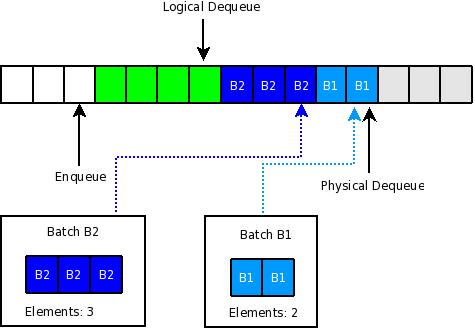
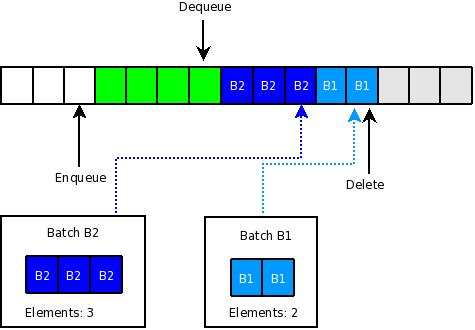
worked more on the design document

diff --git a/doc/design.tex b/doc/design.tex
@@ -44,8 +44,15 @@ There is not much I could add to Mr. Stetter's thought, except, maybe, that the 
 In general, in rsyslog there exists single objects $o$, which are used to build larger sets $O$, which form a superset $\mathcal{O}$ of all those objects that exist at a given time inside a running instance of rsyslog. As seen above, single objects are always described by lower case letters ($o$), larger sets by upper case letters ($O$) and the ``all-sets'' in caligraphic letters ($\mathcal{O}$). Often, objects $O_i, i \in \IN, i \le |\mathcal{O}|$ partition $\mathcal{O}$, but this is not necessarily the case.
 
 \subsection{Definitions}
+\subsubsection{Sudden Fatal Failure}
+As sudden fatal failure is one that occurs at some instant and causes Complete loss of processing capabilities. The two major cases are a sudden power loss or a ``kill -9'' of the process. There are more exotic cases, too, like disasters.
+
+One may argue that it is possible to protect against many sudden fatal failure cases. For example, using an uninterruptable power supply (UPS) will prevent a sudden power loss. While this is true in most cases, it does not hold if looked very closely: in the case of the UPS, for example, a failure in the UPS itself may cause a sudden power loss, which can not be mitigated. Well, actually there can be several layers of mitigation, but always one more potential failure scenario remains. So it is not possible to totally solve the issue.
+
+The concept of ``sudden fatal failure'' now covers all these rest risk that result in termiantion of rsyslogd without the ability execute any code before this happens. This is a very important concept in regard to audit-gradeness.
+
 \subsubsection{Audit Grade}
-In the context of this document, ``audit grade'' means that a subsystem never loses a message that it has taken responsibility for, not even in cases of sudden power failures. The only limit in this restriction is that a subsystem does not guarantee message survival if the subsytem at large is being destroyed (e.g. during a disaster) or some of its components are not of audit-grade. This draws a fine limitation on the audit-grade of a subsystem.
+In the context of this document, ``audit grade'' means that a subsystem never loses a message that it has taken responsibility for, not even in cases of sudden fatal failures. The only limit in this restriction is that a subsystem does not guarantee message survival if the subsytem at large is being destroyed (e.g. during a disaster) or some of its components are not of audit-grade. This draws a fine limitation on the audit-grade of a subsystem.
 
 For example, the rsyslog queue subsystem receives messages and acknowledges them to the submitter (e.g. an input), when they have been enqueued in the storage system. If the queue system is configured to provide audit-grade operation\footnote{Audit-grade queue operation is considerably slower than regular operations, as such this mode is not enabled by default. Most installations will never need a completely audit-grade queue}, the queue relies on the storage subsystem to work properly. If, for example, a disk read error occurs, the message may no longer be readable from the disk and as such is lost. The root cause here is that the disk subsystem was not of audit grade, because it otherwise would not have lost the message. So in this case the queue code is of audit grade, but the one of its components, the disk subsytem, was not. So the overall system is not of audit grade.
 
@@ -498,7 +505,7 @@ back to the queue (think: ungetc()) when something goes wrong. Reasonable
 in unprocessed state outside of the queue.
 
 \paragraph{More reliable can actually be less reliable}
-On the rsyslog mailing list, we had a discussion about how reliable rsyslog should be. It circles about a small potential window of message loss in the case of sudden power failure. Rsyslog can be configured to put all messages into a disk queue (instead of main memory), so these messages survive such a powerfail condition. However, messages dequeued and scheduled for processing during the power outage may be lost. 
+On the rsyslog mailing list, we had a discussion about how reliable rsyslog should be. It circles about a small potential window of message loss in the case of sudden fatal failure. Rsyslog can be configured to put all messages into a disk queue (instead of main memory), so these messages survive such a powerfail condition. However, messages dequeued and scheduled for processing during the power outage may be lost. 
 
 I now consider a case where we have bursty UDP traffic and rsyslog is configured to use a disk-only queue (which obviously is much slower than an in-memory queue). Looking at processing speeds, the max burst rate is limited by using an ultra-reliable queue. To avoid using UDP messages, a second instance could be run that uses an in-memory queue and forwards received messages to the one in ultra-reliable mode (that is with the disk-only queue). So that second instance queues in memory until the (slower) reliable rsyslogd can now accept the message and put it into the reliable queue. Let's say that you have a burst of $r$ messages and that from these burst only $r/2$ can be enqueued (because the ultra reliable queue is so slow). So you lose $r/2$ messages.
 
@@ -535,21 +542,21 @@ Audit-grade queue operations certain perquisites:
 \item queue is configured to not permit losing any messages\footnote{The queue has several settings that can be used to fine-tune situations in which it may discard messages intentionally. All of these must be turned off. Most importantly, that means the producer is blocked for an infinite time if the queue is full.}
 \item queue consumer must also be of audit-grade
 \end{itemize}
-Only when these prequisites are met, queue operation can be considered of being audit-grade. Note that when message loss in case of sudden power failure and similar incidents is acceptable, neither disk-only queues nore a checkpoint interval of 1 is necessary. Such a configuration can also be build with rsyslog v3, which is up to that level.
+Only when these prequisites are met, queue operation can be considered of being audit-grade. Note that when message loss in case of sudden fatal failure and similar incidents is acceptable, neither disk-only queues nore a checkpoint interval of 1 is necessary. Such a configuration can also be build with rsyslog v3, which is up to that level.
 
 Note that in the sections below we describe the implementation in broader terms. Most importantly, we do not restrict ourselves to disk-only queue storage drivers. This is important, because it simplifies design and opens the capability to introduce new, possibly faster-performing, queue storage drivers in the future.
 
 But it is important to keep in mind that a concrete queue is only of audit-grade if it matches all the perquisites given here, most importantly with the right configuration.
 
-\subsubsection{Implementation}
-Messages are enqueued by the queue producer (either an input module or the main message queue's consumer). The enqueue operation is completed only when the message has been successfully accepted by the queue storage driver. Then and only then the producer is permitted to remove the queue from its own storage system. A rough sketch is given in algorithm \ref{alg_q_enq}.
+\subsubsection{Implementation Alternatives}
+Messages, or more precisely objects\footnote{While rsyslog deals with messages, the queue is designed to handle any type of thing that is represented as an rsyslog object. This is considered useful as queues may at some time contain other things than just messages, so we keep it generic.}, are enqueued by the queue producer (either an input module or the main message queue's consumer). The enqueue operation is completed only when the message has been successfully accepted by the queue storage driver. Then and only then the producer is permitted to remove the object from its own storage system. A rough sketch is given in algorithm \ref{alg_q_enq}.
 
 \begin{algorithm}
 \caption{enqueueObject($o$)}
 \begin{algorithmic}
 \label{alg_q_enq}
 \STATE lock queue mutex
-\WHILE{queue is !ready for enqueue}
+\WHILE{queue is not ready for enqueue}
 	\STATE wait on queue to become ready
 \ENDWHILE
 \STATE call queue store driver to add $o$
@@ -557,14 +564,18 @@ Messages are enqueued by the queue producer (either an input module or the main 
 \end{algorithmic}
 \end{algorithm}
 
-The dequeue-operation is more complex. We must ensure that each object stays in the queue until it is finally processed. Hereby, an object is finally processed, when processing of it has been completed. Remeber that to enhance performance objects are dequeued in batches of many. So at any given time, multiple messages may be processed, but not necessarily have finally completed doing so. If another worker thread then tries to obtain a new batch for processing, those ``in-process'' message must not be handed out a second time. Also, if a sudden power loss occurs during processing, queue operation must restart at the point of last commit. This means that all ``in-process'' messages need to be changed back to ``no processed'' state and be restarted again. In those cases the (acceptable) slight message duplication can occur.
+The dequeue-operation is more complex. We must ensure that each object stays in the queue until it is finally processed. Hereby, an object is finally processed, when processing of it has been completed. Remember that to enhance performance, objects are dequeued in batches of many. So at any given time, multiple messages may be processed, but not necessarily have finally completed doing so. If another worker thread then tries to obtain a new batch for processing, those ``in-process'' message must not be handed out a second time. Also, if a sudden fatal failure occurs during processing, queue operation must restart at the point of last commit. This means that all ``in-process'' messages need to be changed back to ``no processed'' state and be restarted again. In those cases the (acceptable) slight message duplication can occur.
 
 In our design, we differentiate between ``logical'' and ``physical'' dequeuing of batches. If a batch is generated for processing, it is logically dequeued --- in the sense that no other batch generating request will be able to receive another copy of these messages. If no exceptional situation happens, those messages will be processed and thus can be considered consumed under normal circumstances.
 
-However, actual deletion from the physical queue storage happens only after the batch is fully processed. At this point, all objects have been acknowledged by their destinations, which now have the responsibility for the object's survival. Consequently, we can delete them from the queue store. This process we call ``physical dequeue''. A first idea is given in algorithm \ref{alg_pdeq_batch_1} (remember that $O(b)$ contains all objects within the given batch $b$).
+However, actual deletion from the physical queue storage happens only after the batch is fully processed. At this point, all objects have been acknowledged by their destinations, which now have the responsibility for the object's survival. Consequently, we can delete them from the queue store. This process is considered the ``physical'' dequeue of the object.
+
+In order to find some simpler terms, we will call the logical dequeue operation just ``dequeue'' and the physical dequeue operation ``delete''. This is consistent with all previous work on rsyslog and thus probably leads to the least surprise when reading older source code and documentation.
+
+A first idea for a deletion is given in algorithm \ref{alg_pdeq_batch_1} (remember that $O(b)$ contains all objects within the given batch $b$, this is \emph{not} $O$-notation and should probably in the future be replaced by something else).
 
 \begin{algorithm}
-\caption{physDequeueBatch($b$), first approach}
+\caption{deleteBatch($b$), first approach}
 \begin{algorithmic}
 \label{alg_pdeq_batch_1}
 \STATE lock queue mutex
@@ -576,25 +587,25 @@ However, actual deletion from the physical queue storage happens only after the 
 \end{algorithmic}
 \end{algorithm}
 
-This algorithm is simple, but requires searching the queue store for the object to be dequeued -- a potentially lengthy operation. However, we can improve the searching process if we know more about the inner structure of batch objects. It seems appropriate to logically dequeue objects in queue-sequential order. A drawback of doing so is that we must prevent other worker threads from trying to dequeue concurrently. This is not really a drawback. We need to guard dequeue operations by a mutex in any case, because otherwise internal structures can not be kept consistent. Practical experience and testing have shown that many small dequeue operations cause a lot of locking contention and as such badly affect performance. So it actually is a welcome enhancement to aquire the queue lock only once for the whole batch dequeue operation. As dequeing is a comperatively fast operation, the lock is not held for extended periods of time.
+This algorithm is simple, but requires searching the queue store for the object to be deleted -- a potentially lengthy operation. However, we can improve the searching process if we know more about the inner structure of batch objects. It seems appropriate to dequeue objects in queue-sequential order. A drawback of doing so is that we must prevent other worker threads from trying to dequeue concurrently. This is not really a drawback. We need to guard dequeue operations by a mutex in any case, because otherwise internal structures can not be kept consistent. Practical experience and testing have shown that many small dequeue operations cause a lot of locking contention and as such badly affect performance. So it actually is a welcome enhancement to aquire the queue lock only once for the whole batch dequeue operation. As dequeing is a comperatively fast operation, the lock is not held for extended periods of time.
 
-A first approach to this functionality is shown in algorithm \ref{alg_ldeq_batch_1}. Note that $C_mBatch$ is the configured maximum number of elements inside a batch, $i$ is an index to address the objects inside the batch.
+A first approach to this functionality is shown in algorithm \ref{alg_ldeq_batch_1}. Note that $C_{mBatch}$ is the configured maximum number of elements inside a batch, $i$ is an index to address the objects inside the batch.
 
 \begin{figure}[h]
 \begin{center}
 \includegraphics[scale=0.6]{rsyslog_queue_pointers.jpeg}
 \end{center}
-\caption{\textbf{Queue Store Pointers}: boxes represent queue entries, colored boxes entries with objects. Objects in green are unprocessed, in blue are logically but not physicalled dequeued and those in gray are physically dequeued. White indicates not yet used entries. Gray objects may be overwritten at any time. Their entries are actually free, we have used the gray color primarily to indicate there once existed objects. Each queue pointer points to the next entry to process.}
+\caption{\textbf{Queue Store Pointers}: boxes represent queue entries, colored boxes entries with objects. Objects in green are unprocessed, in blue are dequeued but not deleted and those in gray have already been deleted. White indicates not yet used entries. Gray objects may be overwritten at any time. Their entries are actually free, we have used the gray color primarily to indicate there once existed objects. Each queue pointer points to the next entry to process.}
 \label{fig_queue_ptr}
 \end{figure}
 
 \begin{algorithm}
-\caption{logicDequeueBatch($b$)}
+\caption{dequeueBatch($b$)}
 \begin{algorithmic}
 \label{alg_ldeq_batch_1}
 \STATE lock queue mutex
 \STATE $0 \to i$
-\WHILE{while queue non-empty and $i < C_mBatch$}
+\WHILE{queue non-empty and $i < C_{mBatch}$}
 	\STATE obtain next obj $o$ from queue store 
 	\STATE advance logical dequeue position
 	\STATE put $o$ into batch
@@ -603,37 +614,37 @@ A first approach to this functionality is shown in algorithm \ref{alg_ldeq_batch
 \end{algorithmic}
 \end{algorithm}
 
-A key concept is somewhat hidden in \marginpar{queue pointers} \emph{advance logical dequeue position}. Each queue store is purely sequential, with objects being enqueued at one ``end'' of the store and dequeued at the other. Of course, each queue store has only finite capacity, but we ignore this to explain the overall picture. A queue can be implemented by two pointers: one that points to the tail of the queue, where new messages are enqueued and one that points to the head of it, where new messages are dequeued. The idea is now to duplicate the dequeue pointer and split it into one for logical and one for physical dequeueing. Figure \ref{fig_queue_ptr} shows this three-pointer approach. Now, we can simple advance either the logical or physical dequeue pointer, depending on operation, and do not need to find the first dequeue position inside the queue store. The logical dequeue pointer always points at it. This mode can be implemented with all currently existing queue storage drivers (but the sequential disk driver may need to use a second file handle or stream object instead of two pointers).
+A key concept is somewhat hidden in \marginpar{queue pointers} \emph{advance logical dequeue position}. Each queue store is purely sequential, with objects being enqueued at one ``end'' of the store and dequeued at the other. Of course, each queue store has only finite capacity, but we ignore this to explain the overall picture. A queue can be implemented by two pointers: one that points to the tail of the queue, where new messages are enqueued and one that points to the head of it, where new messages are dequeued. The idea is now to duplicate the dequeue pointer and split it into one for (logical) dequeue and one for deletion. Figure \ref{fig_queue_ptr} shows this three-pointer approach. Now, we can simple advance either the dequeue or deletion pointer, depending on operation, and do not need to find the first dequeue position inside the queue store. The dequeue pointer always points at it. This mode can be implemented with all currently existing queue storage drivers (but the sequential disk driver may need to use a second file handle or stream object instead of two pointers).
 
-This makes an efficient implementation of algorithm \ref{alg_ldeq_batch_1} possible: when it logically dequeues, it just needs to advance the logical dequeue pointer. So the algorithm executes in $O(n)$ time where $n$ specifies the number of elements to dequeue with an upper bound of $C_mBatch$.
+This makes an efficient implementation of algorithm \ref{alg_ldeq_batch_1} possible: when it logically dequeues, it just needs to advance the dequeue pointer. So the algorithm executes in $O(n)$ time where $n$ specifies the number of elements to dequeue with an upper bound of $C_{mBatch}$.
 
 \begin{figure}[h]
 \begin{center}
 \includegraphics[scale=0.6]{rsyslog_queue_pointers2.jpeg}
 \end{center}
-\caption{\textbf{Physically Dequeueing Messages}: In this sample, we have two batches. With multiple workers, they may be physically dequeued at any time.}
+\caption{\textbf{Physically Dequeueing Messages}: In this sample, we have two batches. With multiple workers, they may be deleted in any order.}
 \label{fig_queue_ptr_deq}
 \end{figure}
 
-Furthermore, we can also improve algorithm \ref{alg_pdeq_batch_1}: Consider that each batch is logically dequeued as an atomic operation. That means all batch objects form a sequential subset of the queue. Figure \ref{fig_queue_ptr_deq} shows the situation when two batches have been logically dequeued.  So the costly ``find'' operation now needs to be carried out only once at the beginning of the batch. As all other objects are sequential, once we have found the batch begin inside the queue, we can simply physically dequeue the $|b|$ elements in queue-sequential order after it. So the cost of the find operation can be reduced from $O(|b|)$ to $O(1)$.
+Furthermore, we can also improve algorithm \ref{alg_pdeq_batch_1}: Consider that each batch is logically dequeued as an atomic operation. That means all batch objects form a sequential subset of the queue. Figure \ref{fig_queue_ptr_deq} shows the situation when two batches have been dequeued.  So the costly ``find'' operation now needs to be carried out only once at the beginning of the batch. As all other objects are sequential, once we have found the batch begin inside the queue, we can simply delete the $|b|$ elements in queue-sequential order after it. So the cost of the find operation can be reduced from $O(|b|)$ to $O(1)$.
 
-We can even reduce the remaining cost of the find operation. If the batch to be physically dequeued is right at the queue's head (as as ``B1'' in the figure), the find immediately terminates with the first element and incurs no cost at all. The situation is different if the batch is not at the queue head, ``B2'' is an example for that (assuming that ``B1'' has not yet been dequeued). We would now still need to search over the objects that are not part of the batch and can then finally get to the object at the head of the batch in question. For queue storage drivers that support random access to queue elements, storing a simple pointer to the batches' queue head element further improves the situation and enables $O(1)$ access to the queue element. This is indicated by the dotted lines in figure \ref{fig_queue_ptr_deq}. Once the head of the queue has been found, two things can happen (depending on the capabilities of the queue storage driver):
+We can even reduce the remaining cost of the find operation. If the batch to be deleted is right at the queue's head (as is ``B1'' in the figure), the ``find'' immediately terminates with the first element and incurs no cost at all. The situation is different if the batch is not at the queue head, ``B2'' is an example for that (assuming that ``B1'' has not yet been dequeued). We would now still need to search over the objects that are not part of the batch and can then finally get to the object at the head of the batch in question. For queue storage drivers that support random access to queue elements, storing a simple pointer to the batches' queue head element further improves the situation and enables $O(1)$ access to the queue element. This is indicated by the dotted lines in figure \ref{fig_queue_ptr_deq}. Once the head of the queue has been found, two things can happen (depending on the capabilities of the queue storage driver):
 
 \begin{enumerate}
 \item the head element can be flagged as ``this and next $n$ elements are deleted''
 \item all elements are actually deleted
 \end{enumerate}
 
-Note that a mixed form is also possible (and probably useful for our \emph{singly} linked list storage driver: there, some $n'$ elements be actually deleted and the head element is flagged as ``this and next $n - n'$ elements are deleted''. Note that in the linked-list case, all but the first elements can be deleted with ease, so probably just the head would stay inside the queue. Note that removing elements off the queue, where possible, is useful because it frees resources. On a busy system, freeing messages as soon as possible can prevent message loss (in non-audit-grade setup) or system slowdown. So it should be done when possible.
+Note that a mixed form is also possible (and probably useful for our \emph{singly} linked list storage driver: there, some $n'$ elements be actually deleted and the head element is flagged as ``this and next $n - n'$ elements are deleted''. Note that in the linked-list case, all but the first elements can be deleted with ease\footnote{It can be considered to change from a singly-linked list to a doubly-linked list, if the benefit outweighs the extra effort required.}, so probably just the head would stay inside the queue. Note that removing elements off the queue, where possible, is useful because it frees resources. On a busy system, freeing messages as soon as possible can prevent message loss (in non-audit-grade setup) or system slowdown. So it should be done when possible.
 
-If we have a purely sequential queue storage driver (currently the sequential disk driver), finding and updating the head element is not an option. Even in this case, we can observe that the batch at the actual physical dequeue pointer will eventually be submitted for dequeuing. So a route to take is to create a list of elements that can be deleted as soon as the physical dequeue pointer reaches any of these elements. We call this the \marginpar{to-delete list}``to-delete list''. To facilitate processing, this list must be ordered in sequence of logical dequeing. This information may not be available from the storage subsystem itself, but it can easily be generated. To do so, a strictly monotonically increasing counter is kept with each logical dequeue operation and stored as part of the batch\footnote{As this must be done via the usual computer-implemented modular arithmetic, we must be careful that we do not see repetion of values because of overflows. Each day has $60 \cdot 60 \cot 24 = 86,400$ seconds (ignoring the subleties of UTC). Now let's assume that we have a moderately-busy system with 1,000 messages per second. We further assume, to be on the save side, that each message is processed inside its own batch. So we have $86,400,000$ batches per day. If we now use a typical $32$-bit integer for generating the batch IDs, we the unique range will be used up after
+If we have a purely sequential queue storage driver (currently the sequential disk driver), finding and updating the head element is not an option. Even in this case, we can observe that the batch at the actual deletion pointer will eventually be submitted for deletion. So a route to take is to create a list of elements that can be deleted as soon as the physical dequeue pointer reaches any of these elements. We call this the \marginpar{to-delete list}``to-delete list''. To facilitate processing, this list must be ordered in sequence of dequeing. This information may not be available from the storage subsystem itself, but it can easily be generated. To do so, a strictly monotonically increasing counter is kept with each logical dequeue operation and stored as part of the batch\footnote{As this must be done via the usual computer-implemented modular arithmetic, we must be careful that we do not see repetion of values because of overflows. Each day has $60 \cdot 60 \cot 24 = 86,400$ seconds (ignoring the subleties of UTC). Now let's assume that we have a moderately-busy system with 1,000 messages per second. We further assume, to be on the save side, that each message is processed inside its own batch. So we have $86,400,000$ batches per day. If we now use a typical $32$-bit integer for generating the batch IDs, we the unique range will be used up after
 $$\frac{2^{32}}{8640000} \approx 497 \text{ days}$$
 days of uninterrupted rsyslog operation. While this sounds somewhat save, it goes down to approximately 10 days of messages are submitted at rate of 50,000 messages per second (which is high, but not unheared of). So it is strongly advised to use 64 bits, which we consider to be save, because for our 1,000 messages per second the range would be exhausted only after
 $$\frac{2^{64}}{8640000} \approx 2.135 \cdot 10^{11} \text{ days}$$
 which equals approximately $584,500,000$ \emph{years}. So even at a rate of one million messages per second, the range would be sufficient for over 500,000 years of continuos operations -- that should be far sufficient.}
-An example: let us assume that ``B2'' was submitted for physical dequeueing first. Then, the head of ``B2'' is not at the queue's physical dequeue pointer. As such, no action can be carried out immediately. So the batch head pointer is stored into a ``to be deleted'' list. Processing continues. Some time later, batch ``B1'' is submitted for deletion. Now, the head pointer is at the head of the physical dequeue list, as such all batch elements are dequeued. Then, the ``to be deleted'' list is checked, and ``B2'' is found in it. Now, ``B2'' is at the head of the (new) physical dequeue pointer and can also be removed. So, ultimately, all messages are physically dequeued. This is more formally describe in algorithm \ref{alg_phys_deq_seq_store}. In that pseudocode, we made a simplification by always putting the to be deleted batch in the ``to-delete'' list, which then enables us to use somewhat more generic code to carry out the work.
+An example: let us assume that ``B2'' was submitted for deletion first. Then, the head of ``B2'' is not at the queue's delete pointer. As such, no action can be carried out immediately. So the batch head pointer is stored into a ``to be deleted'' list. Processing continues. Some time later, batch ``B1'' is submitted for deletion. Now, the head pointer is at the head of the delete list, as such all batch elements are dequeued. Then, the ``to be deleted'' list is checked, and ``B2'' is found in it. Now, ``B2'' is at the head of the (new) deletion pointer and can also be removed. So, ultimately, all messages are physically dequeued. This is more formally describe in algorithm \ref{alg_phys_deq_seq_store}. In that pseudocode, we made a simplification by always putting the to be deleted batch in the ``to-delete'' list, which then enables us to use somewhat more generic code to carry out the work.
 
-Note that there is a price to pay for deletions via the ``to-delete'' list: if a sudden power failure happens during processing, the set of duplicate messages is increased. For example, if power fails after ``B2'' has been fully processed and scheduled for deletion, but \emph{before ``B1'' is also submitted for deletion}, ``B2'' will be reprocessed after recovery. This would not happen if ``B2'' would have been removed from the queue.
+Note that there is a price to pay for deletions via the ``to-delete'' list: if a sudden fatal failure happens during processing, the set of duplicate messages is increased. For example, if a fatal failure happens after ``B2'' has been fully processed and scheduled for deletion, but \emph{before ``B1'' is also submitted for deletion}, ``B2'' will be reprocessed after recovery. This would not happen if ``B2'' would have been removed from the queue.
 
 \begin{algorithm}
 \caption{deleteBatch($b$)}
@@ -642,10 +653,10 @@ Note that there is a price to pay for deletions via the ``to-delete'' list: if a
 \REQUIRE queue mutex is locked by caller
 \STATE enqueue $b.head, |b|$ in ``to-delete'' list $D$
 \COMMENT ``to-delete'' list must be in order of logical dequeue
-\WHILE{$D.head = Q.pysDeqPtr$}
+\WHILE{$D.head = Q.deletePtr$}
 	\FOR{$|b|$ elements}
 		\STATE delete element at queue head
-		\STATE move $q.pysDeqPtr$
+		\STATE move $q.deletePtr$
 	\ENDFOR
 	\STATE remove head of ``to-delete'' list
 \ENDWHILE 
@@ -653,16 +664,65 @@ Note that there is a price to pay for deletions via the ``to-delete'' list: if a
 \end{algorithm}
 
 \paragraph{Warp-Up of Queue Delete Operations}
-When evaluating which route to take, the ``to-delete'' list approach looks elegant for all cases. The negative side effect of potentially increased message duplication currently does not even exist: today, the sequential disk queue storage driver permits only a single worker thread and thus there will always only be one thread at a time. Even if we remove that limitation, message duplication could not be avoided, as stated in the algorithm description above. What remains are the other queue storage drivers. however, they operate in-memory, so message duplication will not happen simply because all messages will be lost on sudden fatal failure. The advantage of limited message duplication only exists in the so-far hypothetical case of a random-access, audit-grade disk queue storage driver. Thus, the decision could be postponed unless that happens (if it ever does).
+When evaluating which route to take, the ``to-delete'' list approach looks elegant for all cases. The negative side effect of potentially increased message duplication currently does not even exist: today, the sequential disk queue storage driver permits only a single worker thread and thus there always will be only one thread at a time. Even if we remove that limitation, message duplication could not be avoided, as stated in the algorithm description above. What remains are the other queue storage drivers. However, they operate in-memory, so message duplication will not happen simply because all messages will be lost on sudden fatal failure. The advantage of limited message duplication only exists in the so-far hypothetical case of a random-access, audit-grade disk queue storage driver. Thus, the decision could be postponed unless that happens (if it ever does).
 
 From a code complexity point of view, the ``to-delete'' list approch is definitely advantagous. Not only because of the reduced number of algorithms required. We also do not need to maintain unique batch IDs and all the logic associated with them.
 
 The other aspect to look at is memory consumption. Assuming that we delete the actual objects, just not their containers inside the queue, extra memory consumption is not really that worse. More importantly, currently only the linked-list queue storage driver can benefit at all, because it is the only driver capable of deleting queue entries in mid-queue. All others, including the array memory driver, do not have this capability.
 
-From a performance point of view, the ``to delete'' list approach looks approximately as good as the others, with some mild better performance for some storage drivers for a non-``to delete'' list approach. This can be mitigated, especially if the potentially somewhat-costly maintenance of the ``to-delete'' list is slightly optimized and the algorithm actually checks if the to be deleted batch is right at the queues delete pointer position. The improved code simplicity, together with current CPU's code caching, may even result in an otherwise not expected speedup.
+From a performance point of view, the ``to delete'' list approach looks approximately as good as the others, with some mild better performance for some storage drivers for a non-``to delete'' list approach. This can be mitigated, especially if the potentially somewhat-costly maintenance of the ``to-delete'' list is slightly optimized and the algorithm actually checks if the to be deleted batch is right at the queue's delete pointer position. The improved code simplicity, together with current CPU's code caching, may even result in an otherwise not expected speedup.
 
-In conclusion, we will implement the ``to-delte'' list approach on the queue layer (above the queue storage drivers). However, we will leave the window open to permit overwriting it with queue storage driver specific functionality. How to do this will not be specified now, as there is currently no need and we do not even know if there ever will be. However, we retain the discussion on the various modes as well as the relevant algorithmic discussions and data structurs inside this paper so that it is readily available should need arise. We also think this is important so that everybody later knows that the decision was made based on good argument and not by accident (we consider this useful in another design enhancement attempt).
+In conclusion, we will implement the ``to-delete'' list approach on the queue layer (above the queue storage drivers). However, we will leave the window open to permit overwriting it with queue storage driver specific functionality. How to do this will not be specified now, as there is currently no need and we do not even know if there ever will be. However, we retain the discussion on the various modes as well as the relevant algorithmic discussions and data structurs inside this paper so that it is readily available should need arise. We also think this is important so that everybody later knows that the decision was made based on good argument and not by accident (we consider this useful in another design enhancement attempt).
 
+\paragraph{Processing Sequence} Looking at the processing sequence, we notice that always objects are dequeued, then processed and then deleted. Then, the whole process starts again. In particular, this meanss that after the previous batch has been deleted, the next batch will be dequeued. Now consider that we need to have exclusive access to the queue for both of these operations. As such it seems natural to combine this into a single step, further reducing potential locking contention.
+
+Note that a side-effect of this approach is that messages can be deleted only when a new batch is dequeued. With current design, this means that at least one message must reside inside the queue. Otherwise, the last batch will not be deleted. However, this something that can (and must!) be solved on the queue worker layer, in that it deletes a batch when the queue is empty.
+
+This leads us to the implementation of dequeueBatch() and deleteBatch() shown in algorithms \ref{alg_deq_batch_final} and \ref{alg_del_batch_final}. Note that $l$ is a flag variable that indicates if the queue is already locked.
+
+\begin{algorithm}
+\caption{dequeueBatch($b$): final version}
+\begin{algorithmic}
+\label{alg_deq_batch_final}
+\STATE lock queue mutex
+\STATE call deleteBatch(b, 1)
+\STATE $0 \to i$
+\WHILE{queue non-empty and $i < C_{mBatch}$}
+	\STATE obtain next obj $o$ from queue store 
+	\STATE advance dequeue position
+	\STATE put $o$ into batch
+\ENDWHILE
+\STATE commit queue changes to storage system (if needed, e.g. fsync())
+\STATE unlock queue mutex
+\end{algorithmic}
+\end{algorithm}
+
+
+\begin{algorithm}
+\caption{deleteBatch($b, l$): final version}
+\begin{algorithmic}
+\label{alg_del_batch_final}
+\IF{queue not yet locked (test via $l$)}
+	\STATE lock queue mutex
+\ENDIF
+\FORALL{objects $o$ in $b$}
+	\STATE destruct $o$
+\ENDFOR
+\STATE enqueue $b.head, |b|$ in ``to-delete'' list $D$
+\COMMENT ``to-delete'' list must be in order of logical dequeue
+\WHILE{$D.head = Q.deletePtr$}
+	\FOR{$|b|$ elements}
+		\STATE delete element at queue head
+		\STATE move $q.deletePtr$
+	\ENDFOR
+	\STATE remove head of ``to-delete'' list
+\ENDWHILE 
+\STATE commit queue changes to storage system (if needed, e.g. fsync())
+\IF{queue not yet locked (test via $l$)}
+	\STATE unlock queue mutex
+\ENDIF
+\end{algorithmic}
+\end{algorithm}
 
 \subsubsection{Queue Stores}
 Currently, rsyslog supports three different types of queue store drivers:
@@ -694,13 +754,104 @@ reliability	& reliable	& reliable		& audit-grade\footnote{if configured correctl
 \hline
 \end{tabular}
 
+\subsubsection{Implementation}
+The actual implementation will be based on algorithms \ref{alg_deq_batch_final} and \ref{alg_del_batch_final}. The rsyslog v3 queue storage driver will be extended one additional method, which permits non-destructive dequeueing of elements. As such, the driver now has the $qAdd()$, $qDeq()$, and $qDel()$ entry points (together with the usual construction and destruction entry points). The queue drivers must support the three pointers for enqueue, dequeue and delete. The ``to-delete'' list will be maintained on the upper queue layer (and not the queue driver layer). This functionality will be optimized so that if a batch to delete is right at the queue's delete pointer, it will immediatly be deleted and not be sent to the ``to-delete'' list. This is especially important with the sequential disk driver, as the condition here always is true (and thus the driver can pretend this in the relevant API without even comparing any pointers -- what would otherwise quite complicated in this driver.
+
+The full list of the queue store driver interface is:
+
+\paragraph{qConstruct} Initializes the queue store.
+
+\paragraph{qDestruct} Destructs the queue store, including all messages that may still be present in it.
+
+\paragraph{qAdd} Enqueue a new object into the queue. Note that this entry point must only be called when the queue is non-full.
+
+\paragraph{qDeq} Non-destructive dequeue of the object at queue head. Dequeue pointer is advanced.
+
+\paragraph{qDel} Delete the object at queue head. Delete pointer is advanced.
+
+\paragraph{qIsAtDelPos} Check if the pointer provided is at the queues current delete position. Returns true, if so, false, otherwise.
+
+Disk queue store drivers may support additional internal functions. However, they should not be exposed to the rest of the queue subsystem.
+
+\begin{figure}
+\begin{center}
+\includegraphics[scale=0.4]{queue_msg_state.jpeg}
+\end{center}
+\caption{Logical Message States during Queue Processing}
+\label{fig_queue_msg_state}
+\end{figure}
+
+Figure \ref{fig_queue_msg_state} shows a logical message state diagram during queue processing. There is no actual state variable, but rather the processing flow demands these state. Note that the state transition from ``dequeued'' to ``queued'' only happens after a fatal failure and a successful system recovery. So this is a rather exceptional case.
+
+\paragraph{Sequential Disk Queue Store Driver}
+The enequeue, deqeueue and delete pointers must be implemented via three stream objects. Most importantly, the dequeue stream must be configured not to delete files when it closes them. A side-effect of this implementation is that data is actually read twice, once to actually obtain it and a second time to delete it. This could only be avoided by an overall redesign on how the disk queue works.
+
 \subsubsection{Checkmarks}
 The following things need to be verified in the actual implementation.
 
 \paragraph{Queue Full}
 Is it possible to set an infinte timeout on queue full condition during enqueue? If not, we must provide it.
 
-\paragraph{Terminatin the Queue}
+\paragraph{Termination the Queue}
 If we cancel a worker, we need to start from the physical dequeue pointer and pull everything that is not scheduled for deletion - NOT from the logical dequeue pointer.
+
+\paragraph{Failed Messages}
+If a message fails on a detached action queue, no backup processing is available (because we detect the failure at a point where the message is already considered processed from the main queue's point of view. We need address this and have two options:
+
+
+I see two approaches at handling this:
+
+a) we enable an action to configure a backup file that shall receive all
+message permanent failures. This is simple (not only to implement but to
+configure and understand)
+
+b) we push the failed message back to the main queue, but with an indication
+that it failed in an action. This is harder to implement and most importantly
+harder to understand/configure, but more flexible
+
+\section{Future Development}
+This section covers topics that can not currently be developed, but where important thoughts came up in discussions. For obvious reasons, the section has brainstorming character.
+
+\subsection{Audit-Grade High Performance Queue Storage Driver}
+An audit grade driver must ensure that no message is lost, but should also be able to handle large workloads. The sequential disk driver does not support the later.
+
+An additional disk driver is envisioned with the properties like the linked list driver, but a reliable on-disk store. In particular, random access to queue elements is desired, which requires an addressing capability.
+
+A potential implementation requires a pre-formatted file. That file is organized in pages of $n$ bytes (e.g. 1K). The page index is used to address a queue item. If an item fits into 1K, it uses one page. If it is larger than 1K, consequtive pages are used to store the element. A page header must be present to indicate how many pages a single element is made up of.
+
+It may be noted that we could even improve performance by keeping part of the data in-memory. For audit-gradeness, it is required that upon enqueue the message is written to disk and only after final processing it needs to be removed. However, it is not forbidden to keep the same message in main memory. That way, the logical dequeue operation could be done one the in-memory representation. Only the physical dequeue would need to write to disk again. As such, we save one disk read out of three writes and one read otherwise required (so one can roughly say that we save one third of disk operations.
+
+Note that due to potential multi-pages messages we can not directly address individual elements, but we can reliably and quikly address elements whom's address we know (learned, for example, during logical dequeue). This is similar to the organization of the in-memory linked list. Actally, such a store \emph{is} a linked list implementation, just that memory is allocated on disk instead of in main memory.
+
+To further improve speed, object representation could be zipped before being written to a page.
+
+File Layout
+Page 0: control structures (most importantyle queue pointers) (can make sense to store in a separate file, which could be moved to a dedicated disk subsystem - can potentially greatly reduce disk seek times).
+Page 1 to n: actual object storage
+
+Algorithms \ref{alg_AuditGradeStoreEnqueue} and \ref{alg_AuditGradeStoreDelete} show how records are enqueued and deleted. Note that the delete part does not even need to read back the record. If we keep at last some records in-memory, the performance cost of ultra-reliable mode can actually comparatively low. Note that we may not even really need to commit data to the storage system in ``AuditGradeStoreDelete()'', because if a fatal failure occurs at this point, at worst message duplication may happen, what we have considered to be acceptable.
+
+\begin{algorithm}
+\caption{AuditGradeStoreEnqueue($o$)}
+\begin{algorithmic}
+\label{alg_AuditGradeStoreEnqueue}
+\REQUIRE queue mutex is locked by caller
+\STATE write $o$ to current enqueue location
+\STATE update \& write queue structures [page 0]
+\STATE sync all files touched 
+\STATE store $o$ in an in-memory structure (or a cache)
+\end{algorithmic}
+\end{algorithm}
+
+\begin{algorithm}
+\caption{AuditGradeStoreDelete($o$)}
+\begin{algorithmic}
+\label{alg_AuditGradeStoreDelete}
+\REQUIRE queue mutex is locked by caller
+\STATE update queue dequeue pointer \& write queue structures [page 0]
+\STATE sync all files touched 
+\end{algorithmic}
+\end{algorithm}
+
 
 \end{document}
